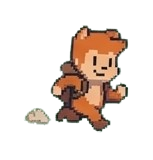
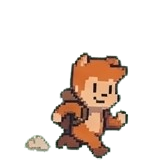
fix(visite): aligner les frames course du Renard 2 (sprite_cut)
Les cellules r1 de l’atlas décalent le personnage d’une frame à l’autre ; le cycle walking donnait l’impression d’un ruban horizontal. Script npm run mascot:renard2-cut-align-walk (recadrage bbox + baseline), doc VISIT_MAP_GEOMETRY, rappel après renard2-cut.

Made-with: Cursor

diff --git a/docs/VISIT_MAP_GEOMETRY.md b/docs/VISIT_MAP_GEOMETRY.md
@@ -62,7 +62,7 @@ La mascotte n’est rendue que si le client a du **contenu public** visite (zone
 4. **Cache** : navigation privée ; **Application → Service Workers → Désinscrire** ; rechargement forcé (Ctrl+F5).
 5. **Serveur** : le répertoire **`dist/`** servi par Node ([`server.js`](../server.js) en `NODE_ENV=production`) est bien celui mis à jour ; pas seulement un `git pull` sans **`dist/`** si le flux ne rebuild pas le front.
 6. **Assets spritesheet** : pour OLU, `public/assets/mascots/olu/olu-spritesheet.png` (`/assets/mascots/olu/olu-spritesheet.png`) ; pour l’oiseau tan (2 frames), `public/assets/mascots/tan-bird/tan-bird-spritesheet.png` (`/assets/mascots/tan-bird/tan-bird-spritesheet.png`) ; pour le **renard sac** (grille 6×4, 153×160 px), seul l’atlas **`/assets/mascots/fox-backpack/fox-backpack-spritesheet.png`** est chargé par le client (pas les fichiers `cells/`). Pour mettre à jour depuis une nouvelle planche (ex. export Gemini) : `npm run mascot:fox-backpack -- --import "chemin.png"` ou `npm run mascot:fox-backpack -- --import` si la PNG « ai-brush » est au chemin Cursor attendu ; puis **`npm run build`** si le serveur sert **`dist/`**.
-7. **Renard 2 (images découpées)** : mascotte catalogue **`renard2-cut-spritesheet`**, renderer **`sprite_cut`** (`data-renderer="sprite-cut"`). **Aucun atlas** : uniquement des PNG sous **`public/assets/mascots/renard2-cut/frames/`** (convention `cell-r{R}-c{C}.png`), listés dans **`src/data/renard2-cut-manifest.js`**. Extraction depuis une planche 6×4 × 153×160 (même logique que le renard sac, bulles neutralisées) : **`npm run mascot:renard2-cut`** (source par défaut : atlas renard sac, ou variable `FORETMAP_RENARD2_SOURCE` / option `--source`). Fallback SVG **`backpackFox2`**. Puis **`npm run build`** si le serveur sert **`dist/`**.
+7. **Renard 2 (images découpées)** : mascotte catalogue **`renard2-cut-spritesheet`**, renderer **`sprite_cut`** (`data-renderer="sprite-cut"`). **Aucun atlas** : uniquement des PNG sous **`public/assets/mascots/renard2-cut/frames/`** (convention `cell-r{R}-c{C}.png`), listés dans **`src/data/renard2-cut-manifest.js`**. Extraction depuis une planche 6×4 × 153×160 (même logique que le renard sac, bulles neutralisées) : **`npm run mascot:renard2-cut`** (source par défaut : atlas renard sac, ou variable `FORETMAP_RENARD2_SOURCE` / option `--source`). Après une **ré-extraction**, si le cycle **course** (ligne r1) donne l’impression d’un ruban horizontal sur la carte, réaligner les tuiles r1 (pieds sur la baseline, encre centrée) : **`npm run mascot:renard2-cut-align-walk`**. Fallback SVG **`backpackFox2`**. Puis **`npm run build`** si le serveur sert **`dist/`**.
 
 ### Agrégats BDD (secret deploy)
 

diff --git a/CHANGELOG.md b/CHANGELOG.md
@@ -9,6 +9,7 @@ Le numéro de version suit [Semantic Versioning](https://semver.org/lang/fr/) (M
 - **Visite — présentation du lieu** : le premier tutoriel embarquable s’ouvre via un **bouton** « Présentation du lieu » (bandeau au-dessus du plan) pour **tous** les utilisateurs en **navigation** ; **animation d’incitation** (léger pulse / halo) tant qu’**aucune zone ni repère** de la carte courante n’a été marqué·e comme vu·e, désactivée si **réduction des animations** système. **`visit-views.jsx`**, **`index.css`** ; e2e **`visit-mode.spec.js`**.
 
 ### Corrigé
+- **Visite — Renard 2 (course)** : les frames **`cell-r1-c*.png`** recalées dans la tuile 153×160 (bas du personnage aligné, encre centrée horizontalement) pour supprimer l’effet de **« bandeau »** lors du cycle marche sur la carte ; script **`npm run mascot:renard2-cut-align-walk`** (`scripts/renard2-cut-align-walk.cjs`), rappel après **`mascot:renard2-cut`** ; doc **`docs/VISIT_MAP_GEOMETRY.md`**.
 - **Pré-saisie biodiversité — OpenAI** : fallback automatique vers **`POST /v1/responses`** quand **`/v1/chat/completions`** n’est pas compatible avec le modèle configuré ; parsing JSON robuste sur les deux formats de réponse (appel principal + gap-fill). **`lib/speciesAutofillOpenAi.js`**, **`tests/species-autofill-extensions.test.js`**.
 - **Visite / mascotte (prof)** : retrait des anciens blocs legacy dans l’onglet **Visite** (boîte à outils pack en modale + aperçu/édition local), pour éviter les conflits d’état avec le studio unifié ; l’édition passe désormais uniquement par l’onglet **Packs mascotte** (bouton de redirection conservé). **`visit-views.jsx`**.
 - **Tests API** : **`POST /api/auth/elevate`** — le JWT élevé doit contenir **`teacher.access`** (alignement UI / e2e). **`tests/auth.test.js`**.
